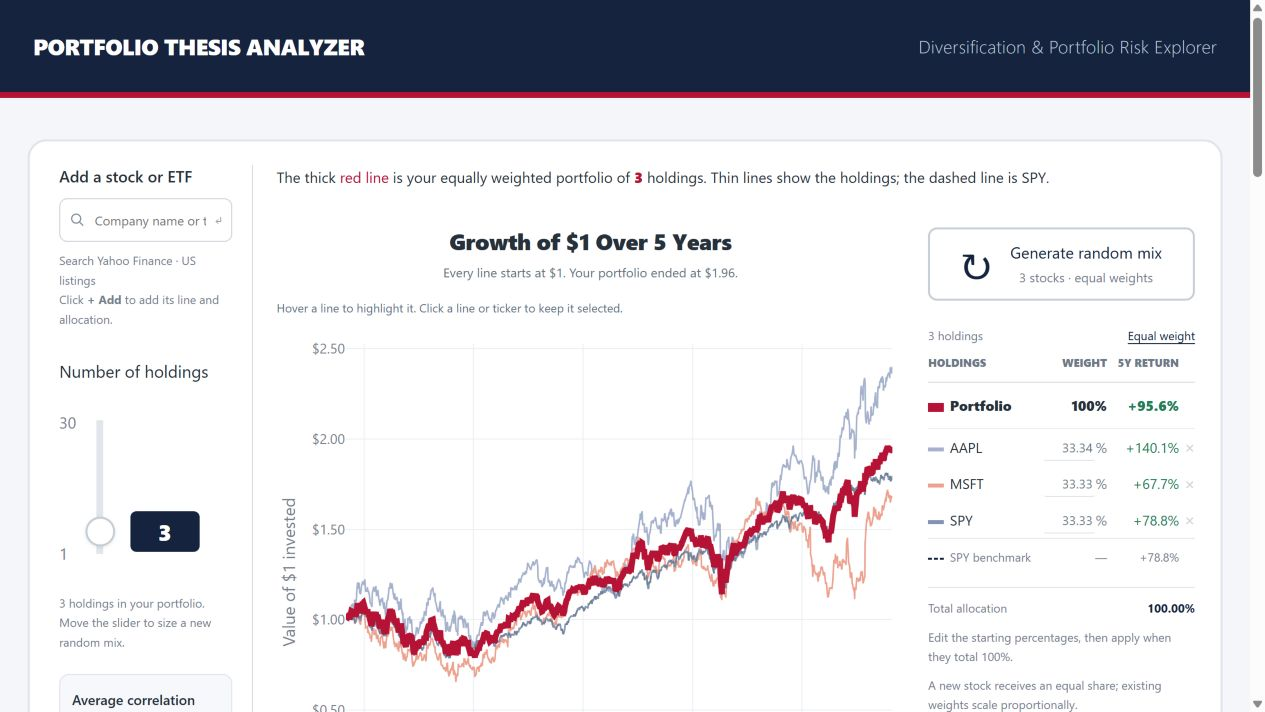
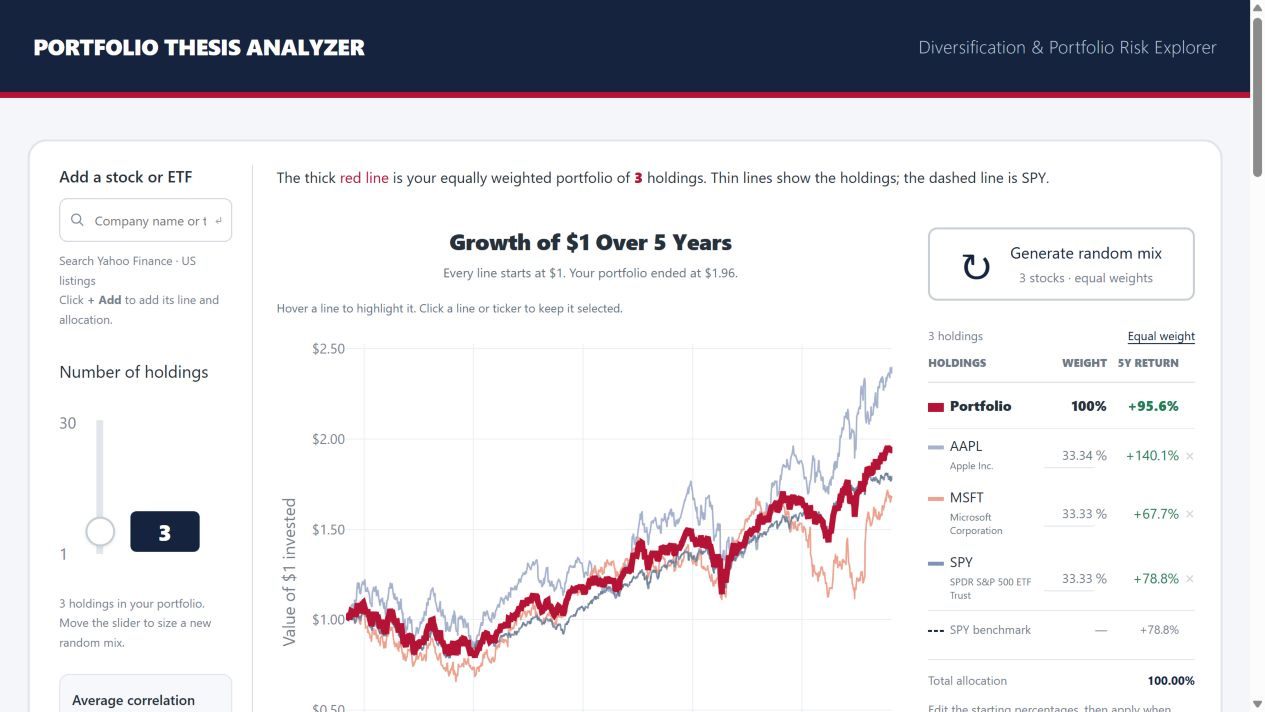
Align README with FIN 471 requirements and refresh app screenshots

diff --git a/README.md b/README.md
@@ -2,12 +2,14 @@
 
 **FIN 471 — Project: Investment Portfolio Risk Analyzer**
 
-<img width="2000" height="1143" alt="image" src="https://github.com/user-attachments/assets/c2b202af-a36e-42d4-a4f0-fa1cfba80970" />
+![Working Portfolio Thesis Analyzer: holdings, allocations, and historical performance](screenshots/chart-first.png)
 
 A local, interactive finance prototype that shows how securities and allocations
-change portfolio performance and risk. Its navy header, red portfolio line, thin
-security lines, vertical controls, and holdings table follow the supplied reference.
-The screen uses **real historical data**, not the reference image's synthetic stocks.
+change portfolio performance and risk. It addresses the financial problem of
+underestimating individual-security risk and portfolio concentration. Users can
+compare allocations and evaluate historical returns, volatility, risk-adjusted
+performance, and losses against SPY before forming their own investment thesis.
+The screenshot above shows the working application using **real historical data**.
 Below the main chart, the result shows what a hypothetical **$10,000 starting investment** became,
 the dollar gain or loss, the total percentage return, and the same investment in
 SPY. Values update whenever the holdings, weights, or dates change. This is a
@@ -16,7 +18,14 @@ the headline are rounded to whole dollars.
 
 ## Run it
 
-Python 3.12 is tested. From this folder:
+Install Python 3.12 and Git. In a terminal, clone the repository and enter its folder:
+
+```powershell
+git clone https://github.com/dinozerg/portfolio-thesis-analyzer.git
+cd portfolio-thesis-analyzer
+```
+
+Python 3.12 is tested. From that folder:
 
 ```powershell
 python -m venv .venv
@@ -104,11 +113,44 @@ successful portfolio intact. Nothing is traded or sent to a brokerage.
 | Allocation and performance charts | Starting allocation donut; individual/portfolio performance lines |
 | Market benchmark | SPY dashed line and same-period risk/return comparison |
 
+The selected FIN 471 topic is **Investment Portfolio Risk Analyzer**. The app
+also addresses the assignment-wide requirements:
+
+| Class requirement | Evidence in this repository |
+|---|---|
+| Executable, interactive prototype | Python HTTP server and browser UI; installation and launch commands above |
+| External financial API without a paid subscription | Yahoo Finance search and adjusted daily prices through `yfinance`; no API key required |
+| At least three financial calculations | Total return, annualized volatility, Sharpe ratio, and maximum drawdown in `portfolio.py` |
+| At least two relevant visualizations | Historical performance line chart and starting-allocation donut chart |
+| Invalid inputs, missing data, and API failures | Validation, common-date alignment, visible errors, and explicitly labeled matching-cache fallback |
+| Reproducibility and documentation | Pinned dependencies, setup instructions, formulas, data assumptions, limitations, and tests |
+| AI coding agent | OpenAI Codex; development and validation described below |
+| At least two working-app screenshots | Opening performance screenshot plus the risk/allocation screenshot below |
+| GitHub submission and demonstration | Repository URL below; demonstration walkthrough below for the student to present |
+
+## Class demonstration walkthrough
+
+1. Launch the app and show AAPL, MSFT, and SPY. Keep at least three holdings
+   during the class demonstration, even though the app also permits smaller
+   portfolios for comparison.
+2. Set starting weights to **40%, 35%, and 25%**, then click **Apply weights**.
+   Show the historical dates and explain the buy-and-hold assumption.
+3. Show the performance chart and the $10,000 outcome alongside SPY. Explain
+   that the displayed return is for the full period, not an annualized return.
+4. Scroll to the allocation donut and risk measures. Explain volatility,
+   Sharpe ratio, maximum drawdown, and the editable risk-free assumption.
+5. Change the weights or date range and describe how the results change.
+   Search for another company and add it to demonstrate external API interaction.
+6. Enter weights that do not total 100% to show validation. Explain how missing
+   prices and provider outages are handled and why past performance is not a forecast.
+
+Submit https://github.com/dinozerg/portfolio-thesis-analyzer and demonstrate
+the running app as required by the instructor. Public hosting is not specified
+in the supplied assignment; a local demonstration requires the app to be running
+on the presenting computer. Fixed custom dates and identical weights make a
+comparison repeatable, subject to provider revisions to historical prices.
+
 ## Working application screenshots
-
-![Chart-first portfolio explorer](screenshots/chart-first.png)
-
-![Portfolio explorer](screenshots/performance.png)
 
 ![Risk and allocation](screenshots/risk-allocation.png)
 
@@ -134,6 +176,14 @@ multi-user hosting configuration. Public deployment remains a separate step.
 
 The app uses [yfinance](https://github.com/ranaroussi/yfinance), an unofficial client
 for Yahoo Finance's market-data APIs:
+
+The assignment allows an alternative historical-price source; Finnhub is suggested,
+not mandatory. Live downloads and company search were successfully checked on
+October 29, 2026, without an API key or paid subscription. The
+[yfinance documentation](https://ranaroussi.github.io/yfinance/) identifies the
+tool as intended for research and education and the Yahoo Finance API as intended
+for personal use. This is a local educational prototype; that access should not
+be read as permission to redistribute a market-data service.
 
 - [`Search`](https://ranaroussi.github.io/yfinance/reference/api/yfinance.Search.html)
   searches company names/tickers and returns listings. Results are filtered to
@@ -209,6 +259,15 @@ random uniqueness, one-stock portfolios, inclusive custom-date boundaries,
 invalid/insufficient date ranges, rebasing to the selected window, date-specific
 cache isolation, and filtering company-search results.
 
+Validation on October 29, 2026: **26 automated tests passed**. A separate live
+API check retrieved 251 aligned daily observations for the one-year AAPL/MSFT/SPY
+40/35/25 example, calculated all four required return/risk measures, and confirmed
+company search returned results. The price response was fresh, not an outage-cache
+fallback. The local server, interface, and Plotly asset returned successful HTTP
+responses, and the running browser displayed both charts and the FIN 471 footer.
+The two screenshots displayed in this README were refreshed from that running app.
+These checks do not replace the student's working application demonstration.
+
 OpenAI Codex implemented and iterated on the app from the user's README, assignment,
 and screenshot. The first version used Streamlit; user feedback prompted a custom
 interface for closer visual fidelity, real company search, and a clearer weight
@@ -218,16 +277,17 @@ real downloaded data. AI output was validated rather than accepted on trust.
 ## Limitations and submission status
 
 All source, dependency instructions, methodology, API notes, AI-use explanation,
-and working-app screenshots are in this folder. GitHub upload and a public demo
-are still pending. Never upload .venv, .cache, logs, or credentials. Localhost is
-not a publicly accessible demo URL.
+and working-app screenshots are committed to GitHub. The student still needs to
+submit the repository URL and present the working demonstration. No public hosted
+demo is provided. Never upload .venv, .cache, logs, or credentials.
 
 This is historical educational analysis: no fees, taxes, slippage, cash flows,
 transaction execution, persistent user accounts, or guaranteed data availability.
 Survivorship and selection bias apply. API limits/outages and data revisions can
 affect results. Optional AI-written investment theses and synthetic correlation
-simulation are not implemented; Project does not require them. The screenshot
-is a visual reference, not a source of financial observations.
+simulation are not implemented; the selected project does not require them.
+Screenshots illustrate the running prototype; displayed values can differ when
+the selected dates or provider data change.
 
 Historical performance is not a prediction or personalized investment advice.
 
